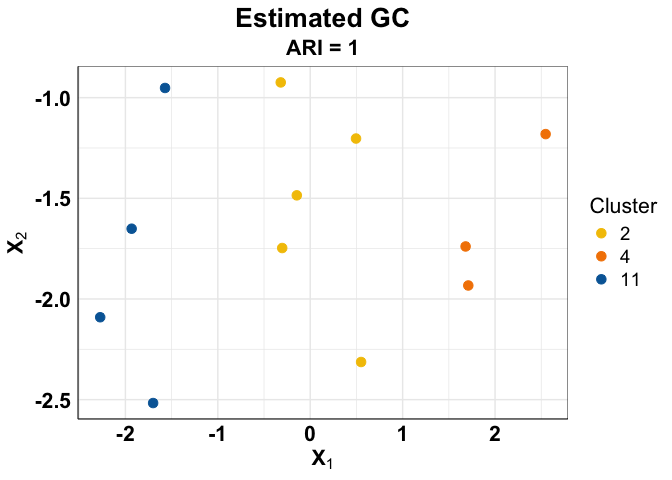
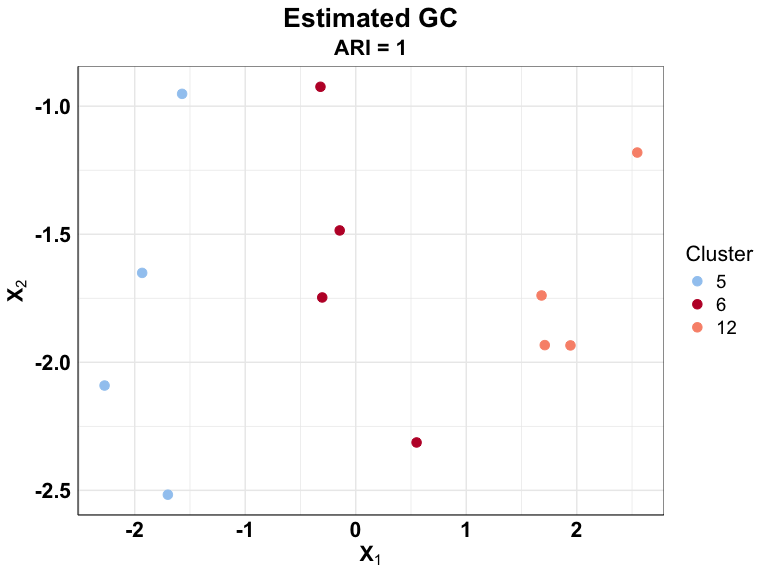
Made changes to the layout and size of the plots

diff --git a/README.md b/README.md
@@ -50,7 +50,7 @@ visualized as:
 Data$plot_x
 ```
 
-![](README_files/figure-gfm/plot_x-1.png)<!-- -->
+<img src="README_files/figure-gfm/plot_x-1.png" width="100%" style="display: block; margin: auto;" />
 
 The plot of the observation-level variables (dimensions 1 and 2)
 segregated by group-clusters can be visualized as:
@@ -59,7 +59,7 @@ segregated by group-clusters can be visualized as:
 Data$plot_y
 ```
 
-![](README_files/figure-gfm/plot_y-1.png)<!-- -->
+<img src="README_files/figure-gfm/plot_y-1.png" width="100%" style="display: block; margin: auto;" />
 
 ## Function to implement CAVI
 
@@ -118,9 +118,10 @@ ARI_OC = 0
 for (j in 1:length(OC)) {
     ARI_OC[j] = aricode::ARI(Data$z_true[[j]], OC[[j]])
 }
-# This is the combined observational-level clustering which accounts
-# for sharing of clusters across the groups
-ARI_OC_global = aricode::ARI(as.vector(unlist(Data$z_true)), Out_NAM_VI_MultiRun_Parallel$z.estimated)
+# This is the combined observational-level clustering which
+# accounts for sharing of clusters across the groups
+ARI_OC_global = aricode::ARI(as.vector(unlist(Data$z_true)),
+    Out_NAM_VI_MultiRun_Parallel$z.estimated)
 ```
 
 The clustering accuracies are summarized as:
@@ -150,7 +151,7 @@ estimated group-level clusters can be visualized as:
 Plots$plot_x.est
 ```
 
-![](README_files/figure-gfm/plot_x_estimated-1.png)<!-- -->
+<img src="README_files/figure-gfm/plot_x_estimated-1.png" width="100%" style="display: block; margin: auto;" />
 
 The plot of the observation-level variables (dimensions 1 and 2)
 segregated by estimated group-level clusters and by estimated
@@ -160,4 +161,4 @@ observational-level clusters can be visualized as:
 Plots$plot_y.est
 ```
 
-![](README_files/figure-gfm/plot_y_estimated-1.png)<!-- -->
+<img src="README_files/figure-gfm/plot_y_estimated-1.png" width="100%" style="display: block; margin: auto;" />
